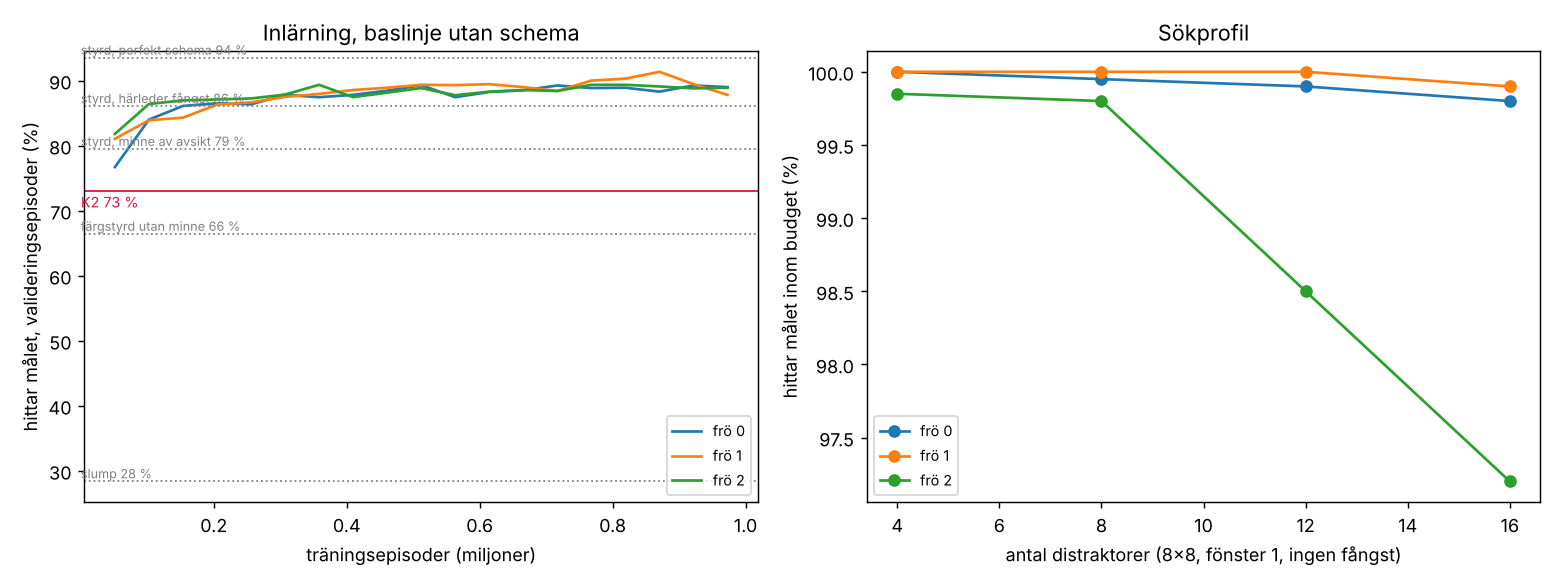
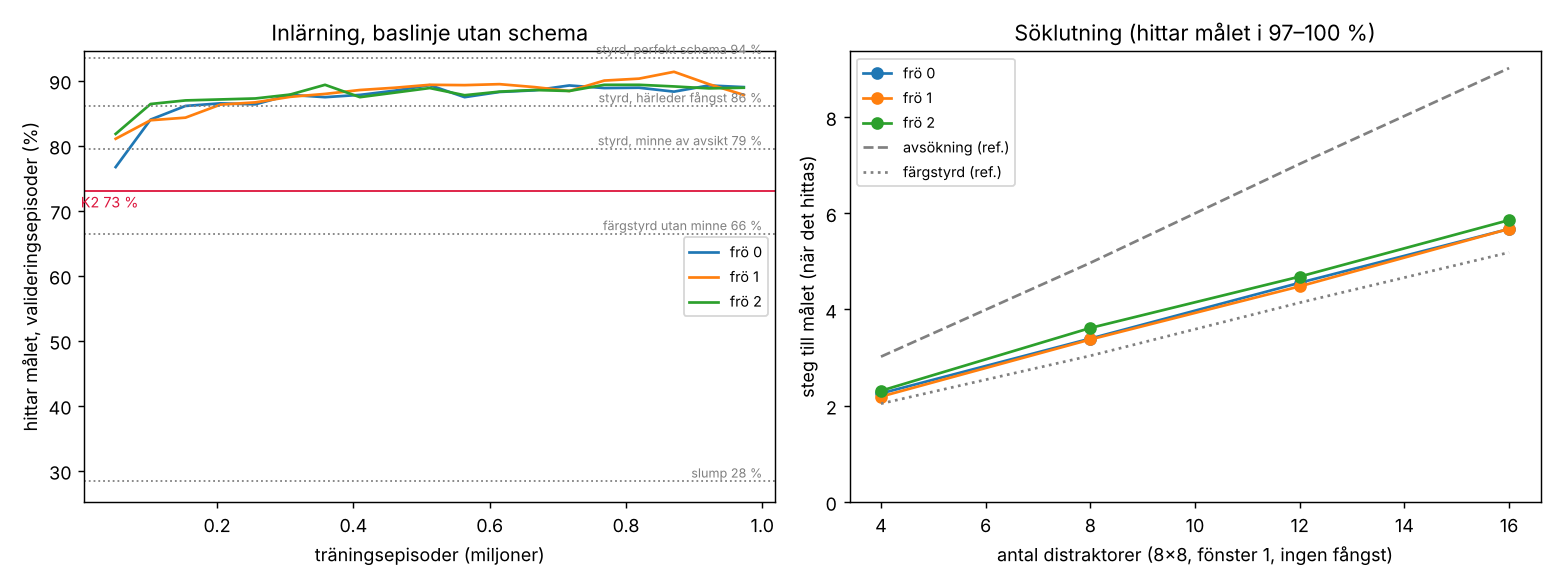
Nexis v2 sprint 2: gate plot shows search slope against reference agents
Claude-Session: https://claude.ai/code/session_01RZuDDejLAW4hXDj9YRxTJu

diff --git a/v2/eval_gate2.py b/v2/eval_gate2.py
@@ -112,20 +112,28 @@ def plot(res):
     for key, lab in lines:
         v = 100 * np.mean([x["found"] for x in refs[key]])
         ax[0].axhline(v, ls=":", lw=1, color="gray")
-        ax[0].text(0, v + 0.5, f"{lab} {v:.0f} %", fontsize=7, color="gray")
+        ax[0].text(1.0, v + 0.6, f"{lab} {v:.0f} %", fontsize=7, color="gray", ha="right")
     ax[0].axhline(100 * K2_THRESHOLD, color="crimson", lw=1)
     ax[0].text(0, 100 * K2_THRESHOLD - 2.5, "K2 73 %", fontsize=8, color="crimson")
     ax[0].set_xlabel("träningsepisoder (miljoner)"); ax[0].set_ylabel("hittar målet, valideringsepisoder (%)")
-    ax[0].set_title("Inlärning, baslinje utan schema"); ax[0].legend(fontsize=8, loc="lower right")
+    ax[0].set_title("Inlärning, baslinje utan schema"); ax[0].legend(fontsize=8, loc="center right")
     ks = (4, 8, 12, 16)
     for s, v in res["seeds"].items():
-        ax[1].plot(ks, [100 * v["per_k"][k]["found"] for k in ks], marker="o", label=f"frö {s}")
+        ax[1].plot(ks, [v["per_k"].get(k, v["per_k"].get(str(k)))["mean_steps_found"] for k in ks], marker="o", label=f"frö {s}")
+    s1 = json.load(open(os.path.join(RES, "sprint1_env_check.json")))["A_search_slope"]
+    for key, lab, st in [("weak/item_scan", "avsökning (ref.)", "--"), ("weak/guided", "färgstyrd (ref.)", ":")]:
+        ax[1].plot(ks, s1[key]["mean_steps"], color="gray", ls=st, label=lab)
+    ax[1].set_ylim(0, None)
     ax[1].set_xlabel("antal distraktorer (8×8, fönster 1, ingen fångst)")
-    ax[1].set_ylabel("hittar målet inom budget (%)"); ax[1].set_title("Sökprofil")
+    ax[1].set_ylabel("steg till målet (när det hittas)")
+    ax[1].set_title("Söklutning (hittar målet i 97–100 %)")
     ax[1].legend(fontsize=8)
     fig.tight_layout()
     fig.savefig(os.path.join(RES, "sprint2.png"), dpi=130)
 
 
 if __name__ == "__main__":
-    main()
+    if sys.argv[1:] == ["--plot-only"]:
+        plot(json.load(open(os.path.join(RES, "sprint2_gate.json")), ))
+    else:
+        main()
